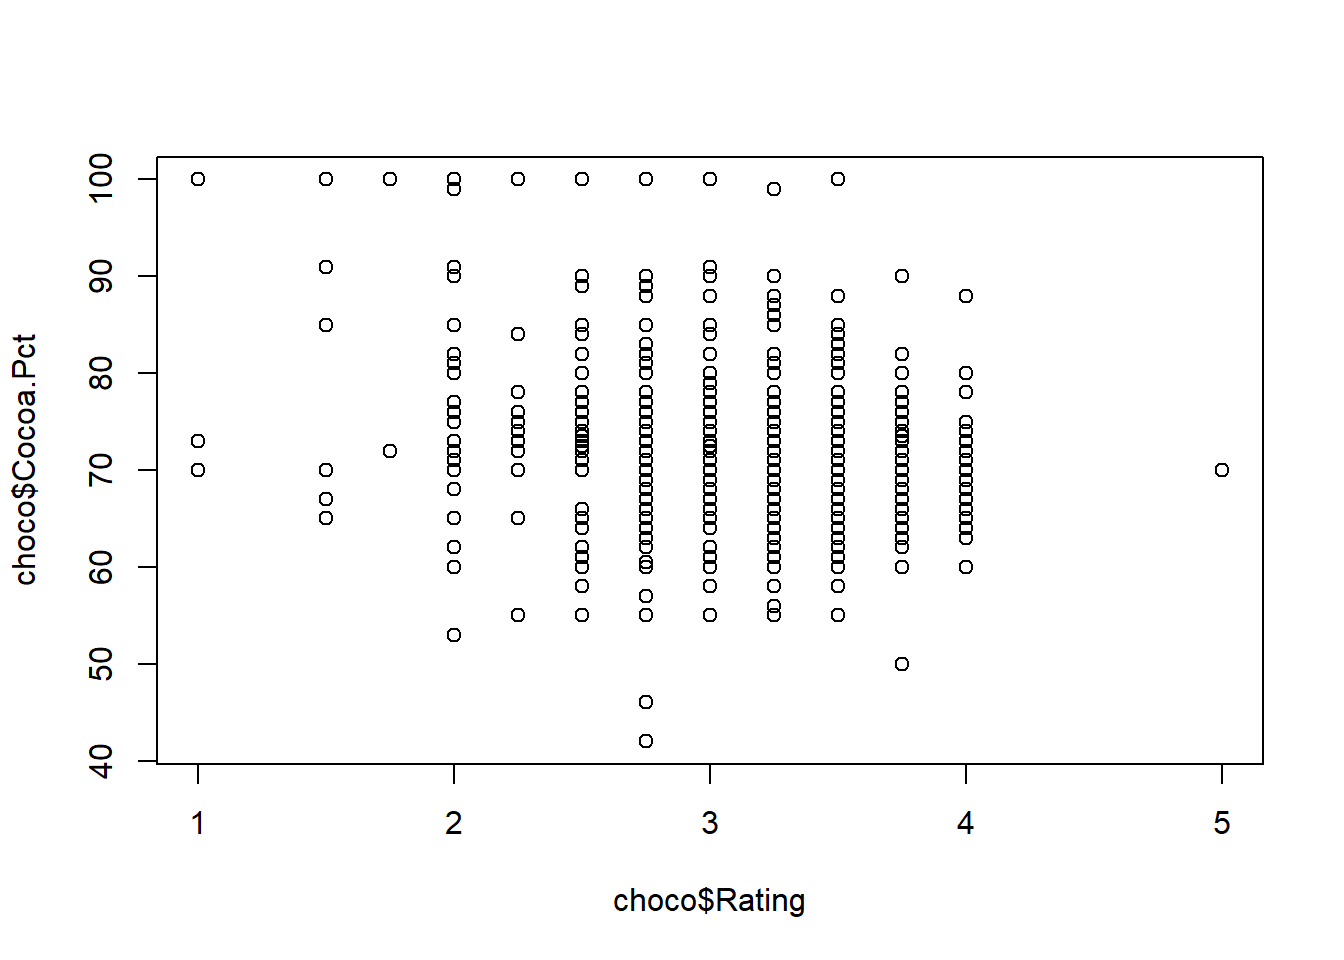
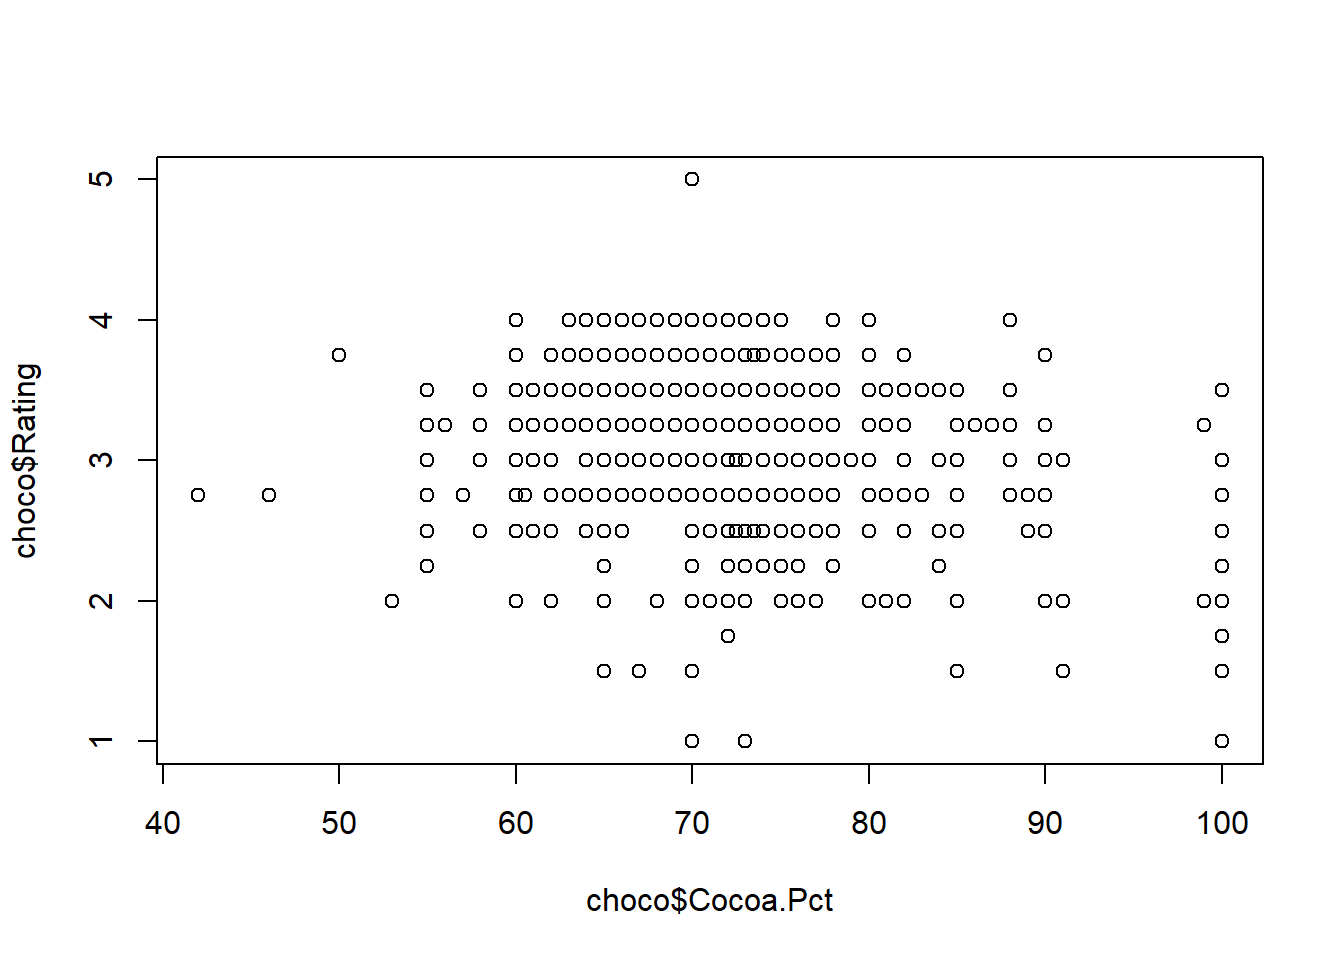
make some changes

diff --git a/individual1.html b/individual1.html
@@ -218,8 +218,8 @@ head(choco)</code></pre>
 <p>1.The rating are basically normal distributed but the plot has skewed to the left and has 2 outlier which are 5.</p>
 <pre class="r"><code>hist(choco$Rating,breaks=6)</code></pre>
[1 lines of base64/hex data omitted]
-<pre class="r"><code>plot(choco$Rating,choco$Cocoa.Pct)</code></pre>
[1 lines of base64/hex data omitted]
+<pre class="r"><code>plot(choco$Cocoa.Pct,choco$Rating)</code></pre>
[1 lines of base64/hex data omitted]
 <pre class="r"><code>class(choco$Company.Location)</code></pre>
 <pre><code>## [1] &quot;factor&quot;</code></pre>
 </div>
